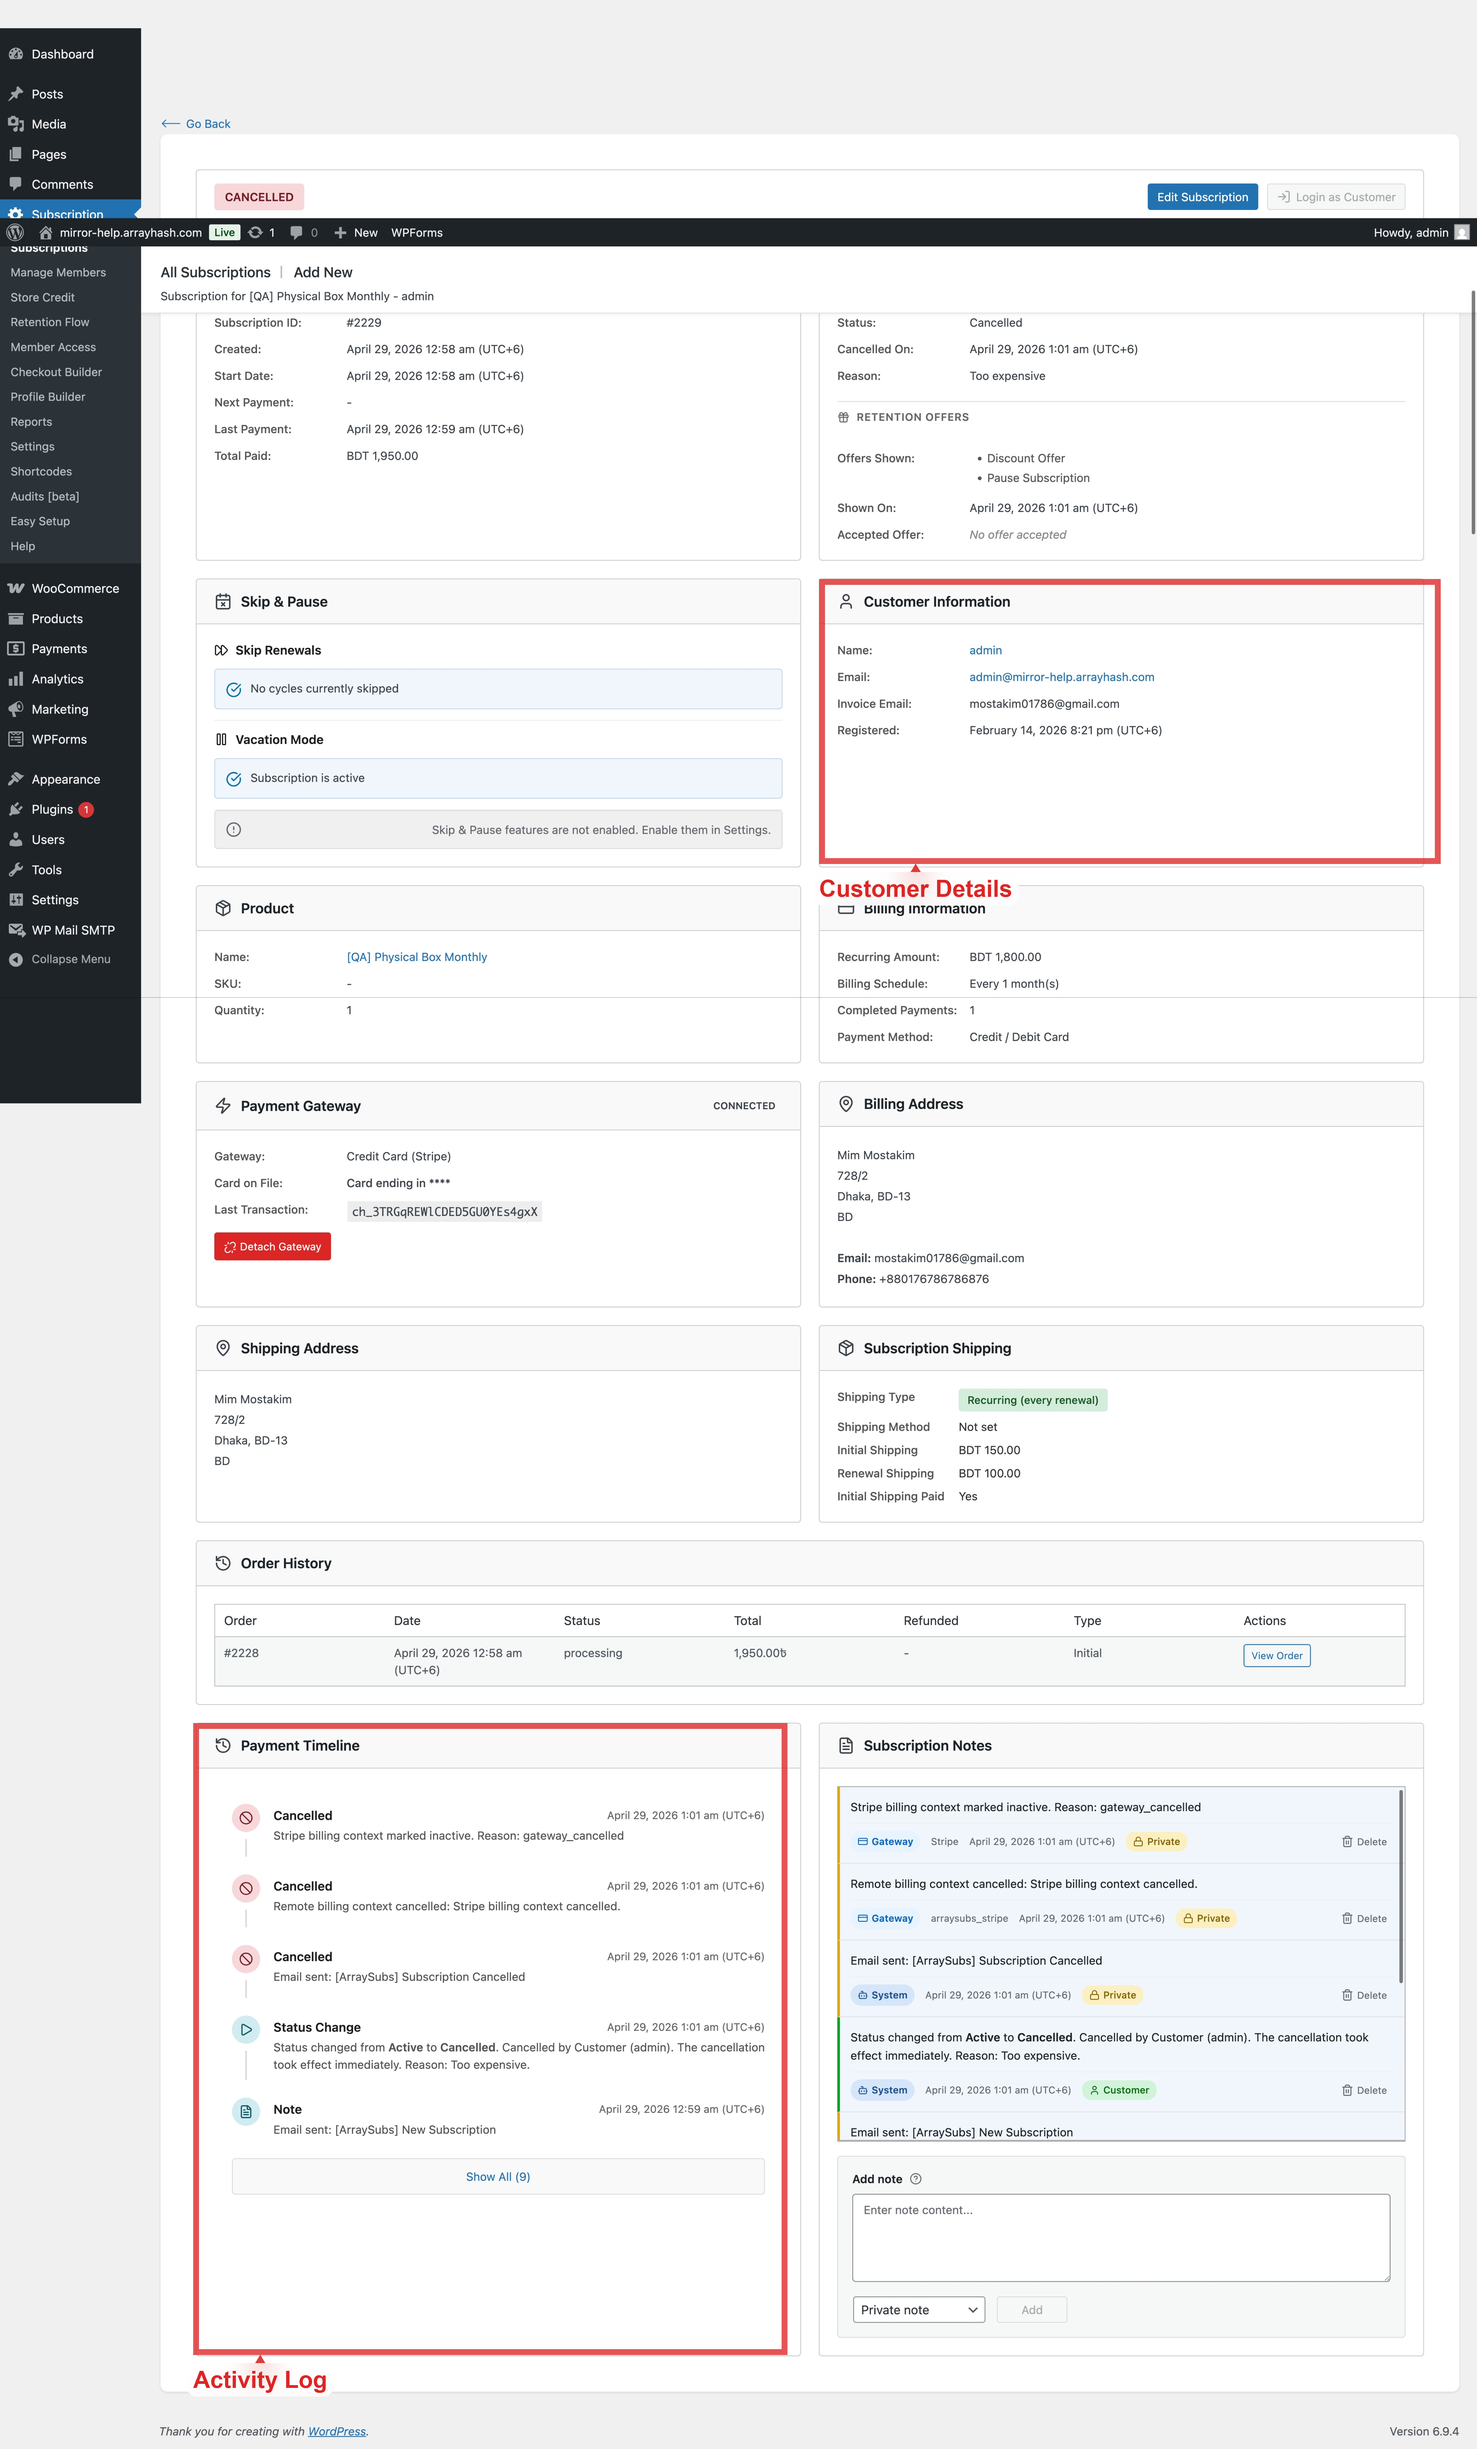
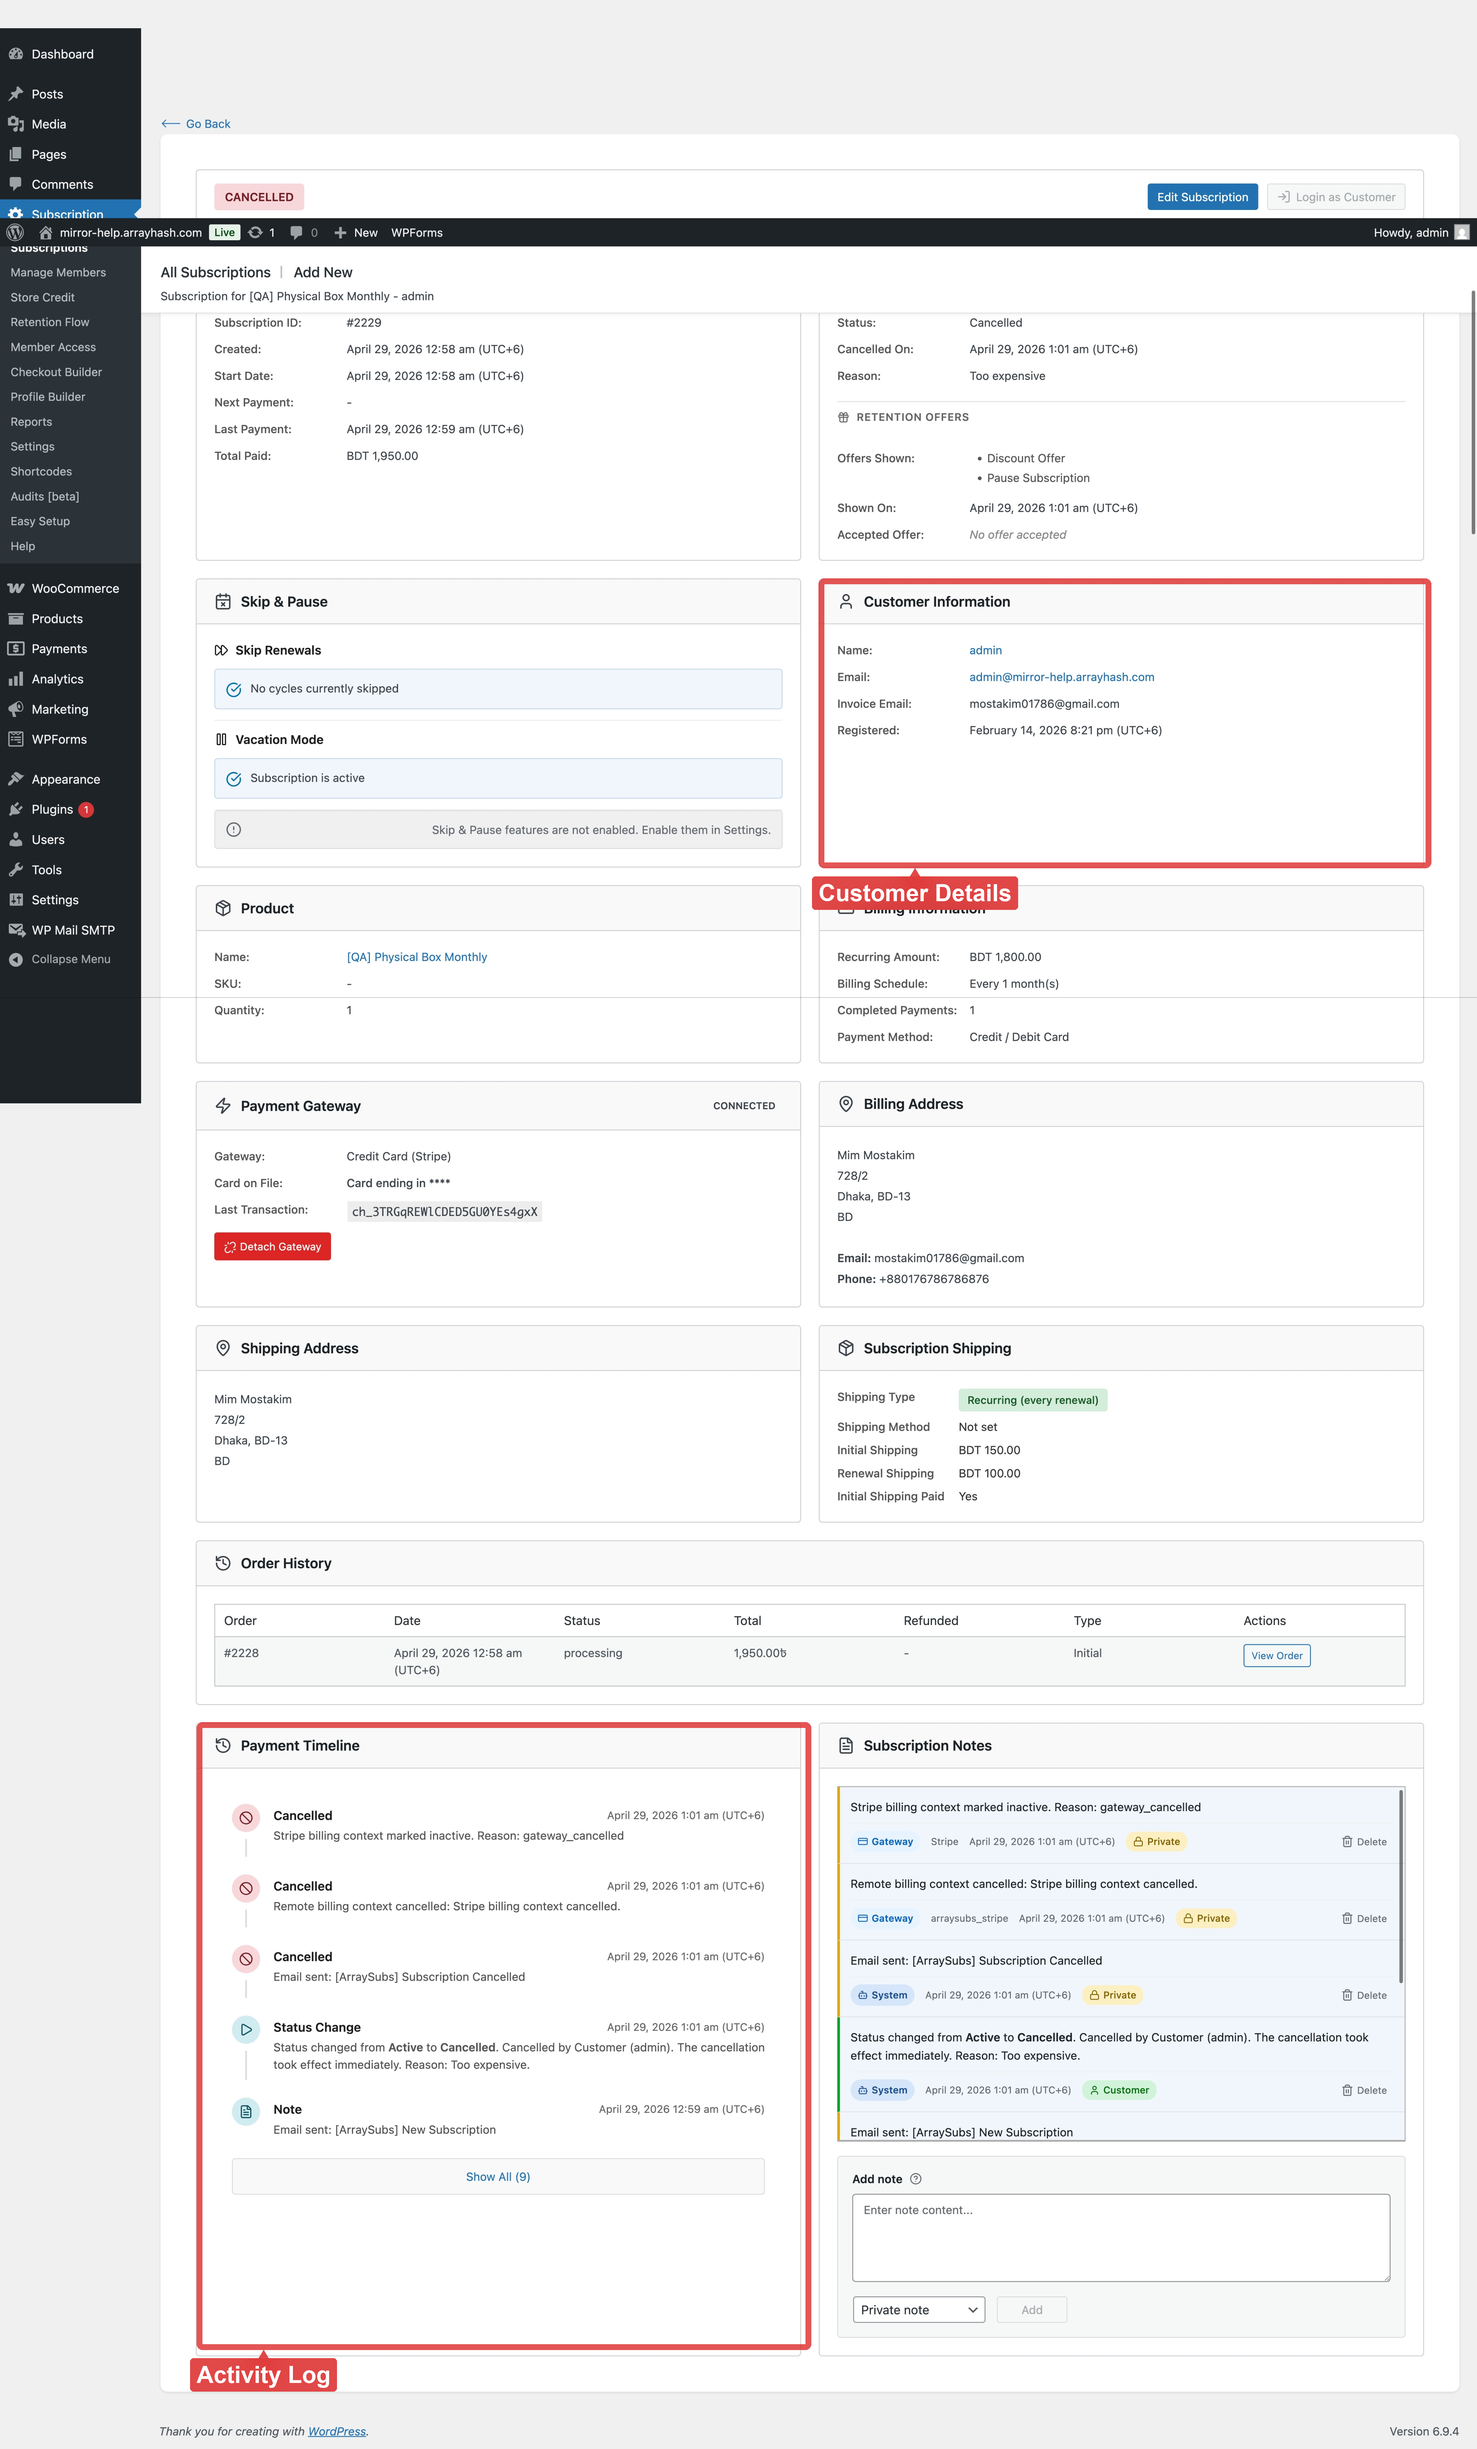
//

Changed region(s): [[0.1243, 0.6853, 0.5592, 0.9968], [0.5281, 0.3427, 0.9631, 0.3738], [0.9631, 0.2181, 0.9941, 0.3427]]

diff --git a/marker/drawing.py b/marker/drawing.py
@@ -8,9 +8,10 @@ from PIL import Image, ImageDraw, ImageFilter, ImageFont
 from .models import Annotation, Bbox
 
 STROKE_ALPHA = 200
-ARROW_ALPHA = 230
-LABEL_BG_ALPHA = 170
+ARROW_ALPHA = 215
+LABEL_BG_ALPHA = 215
 LABEL_TEXT_ALPHA = 255
+LABEL_TEXT_RGB = (255, 255, 255)
 
 MIN_FONT_SIZE = 14
 
@@ -193,8 +194,10 @@ def _draw_translucent_rectangle(
     draw = ImageDraw.Draw(overlay)
     x0, y0 = bbox.x, bbox.y
     x1, y1 = bbox.x + bbox.width, bbox.y + bbox.height
-    draw.rectangle(
+    radius = max(4, stroke)
+    draw.rounded_rectangle(
         [(x0, y0), (x1, y1)],
+        radius=radius,
         outline=color_rgb + (STROKE_ALPHA,),
         width=stroke,
     )
@@ -292,7 +295,7 @@ def _render_label_with_blur_bg(
 
     bg_w = bg_x1 - bg_x0
     bg_h = bg_y1 - bg_y0
-    radius = min(pad_x + pad_y, max(8, bg_h // 3))
+    radius = max(4, min(pad_x, pad_y))
 
     crop = canvas.crop((bg_x0, bg_y0, bg_x1, bg_y1))
     blurred = crop.filter(ImageFilter.GaussianBlur(radius=blur_radius))
@@ -307,7 +310,7 @@ def _render_label_with_blur_bg(
     ImageDraw.Draw(tint).rounded_rectangle(
         [(0, 0), (bg_w - 1, bg_h - 1)],
         radius=radius,
-        fill=(255, 255, 255, LABEL_BG_ALPHA),
+        fill=color_rgb + (LABEL_BG_ALPHA,),
     )
     canvas.paste(tint, (bg_x0, bg_y0), tint)
 
@@ -320,7 +323,7 @@ def _render_label_with_blur_bg(
             (lx, cy),
             line,
             font=font,
-            fill=color_rgb + (LABEL_TEXT_ALPHA,),
+            fill=LABEL_TEXT_RGB + (LABEL_TEXT_ALPHA,),
         )
         cy += line_h + spacing
 

diff --git a/marker/config.py b/marker/config.py
@@ -5,7 +5,21 @@ from dataclasses import dataclass
 from pathlib import Path
 from typing import Optional
 
-DEFAULT_MODEL = "gpt-5.4"
+_FALLBACK_MODEL = "gpt-5.4"
+
+
+def load_env() -> None:
+    """Best-effort .env loading. Silent if python-dotenv isn't installed."""
+    try:
+        from dotenv import load_dotenv
+    except ImportError:
+        return
+    load_dotenv()
+
+
+load_env()
+
+DEFAULT_MODEL = os.environ.get("OPENAI_MODEL", _FALLBACK_MODEL)
 DEFAULT_COLOR = "#DC2626"
 DEFAULT_FONT_CANDIDATES = [
     "/System/Library/Fonts/Supplemental/Arial Bold.ttf",
@@ -23,15 +37,6 @@ class RenderDefaults:
     color: str = DEFAULT_COLOR
     stroke_width: Optional[int] = None
     font_path: Optional[str] = None
-
-
-def load_env() -> None:
-    """Best-effort .env loading. Silent if python-dotenv isn't installed."""
-    try:
-        from dotenv import load_dotenv
-    except ImportError:
-        return
-    load_dotenv()
 
 
 def get_api_key() -> str:

diff --git a/annotate.py b/annotate.py
@@ -3,9 +3,7 @@
 
 Examples:
 
-  python annotate.py --image test.jpeg --output out.png \\
-      --query "red box + arrow on the customer info card, label 'Customer Details'" \\
-      --query "rectangle around the payment timeline labeled 'Activity Log'"
+  python annotate.py --image test_1.jpeg --output out.png --query "red box + arrow on the customer info card, label 'Customer Details'"   --query "rectangle around the payment timeline labeled 'Activity Log'"
 
   python annotate.py --image test.jpeg --output out.png --queries-file queries.json
 """
